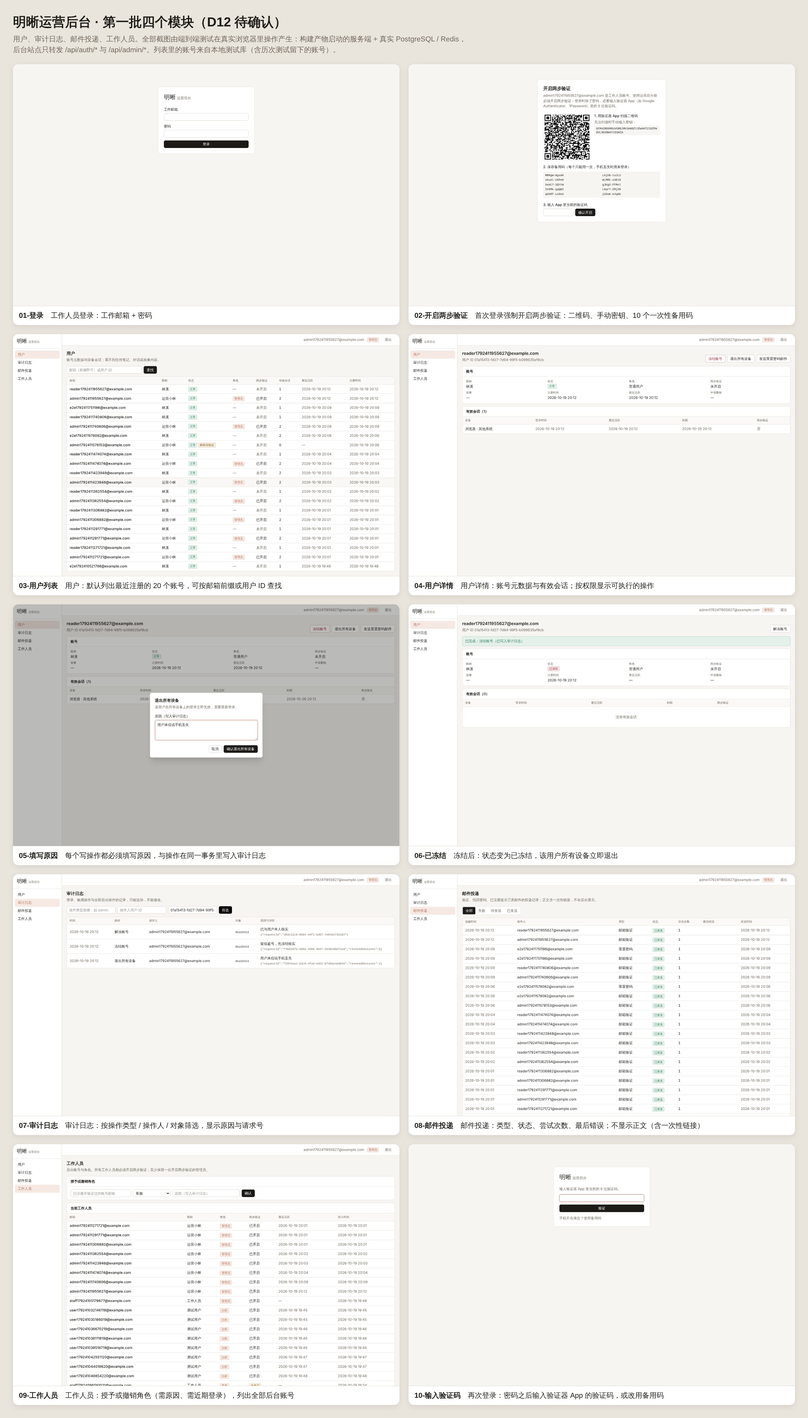
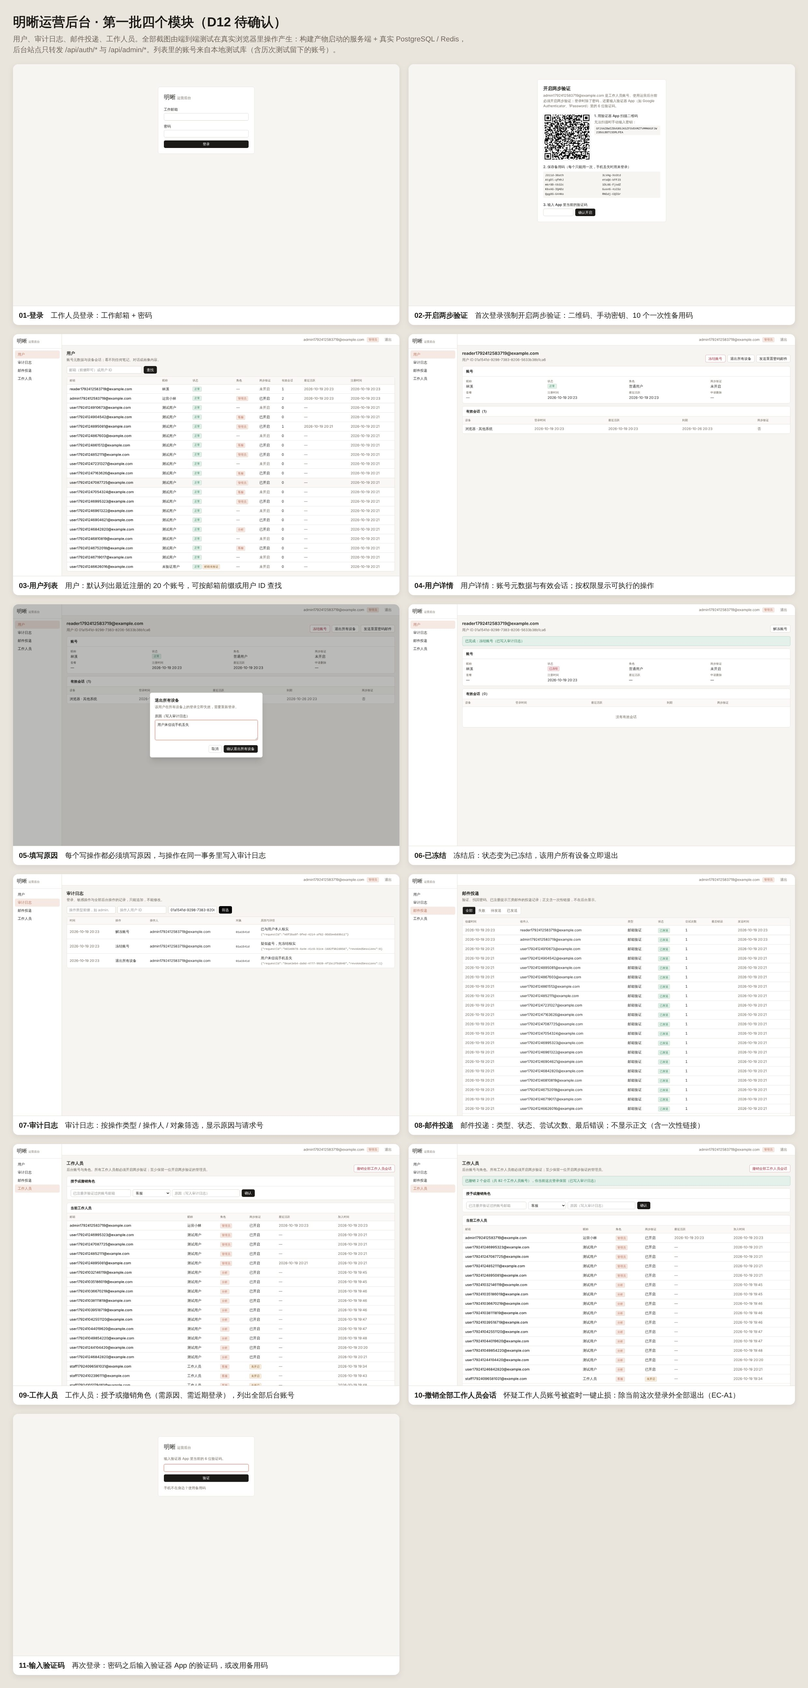
P3.5 步骤 4b：补齐 EC-A1，一键撤销全部工作人员会话
提交前自查发现 docs/05 EC-A1 的“管理员可一键撤销全部工作人员会话”没有实现。
- 接口 POST /api/admin/staff/revoke-sessions（staff.manage，敏感操作需 10 分钟内登录）：
  锁住全部工作人员行，删除工作人员的全部会话，只保留执行者当前这次登录；与审计同一事务
  （审计无单个对象，记录原因、撤销数量、涉及账号数）。契约 StaffSessionsRevoked。
- 工作人员页：按钮 + 填写原因的确认框；成功提示说明当前登录保留。
- 集成测试 1 个、端到端用例 1 个；反向验证两处（不保留执行者会话 / 不限定工作人员）均被拦住。
- 文档：docs/04 步骤 4b、docs/05 模块 10、docs/06 第 17 条证据；截图更新为 11 张。

Claude-Session: https://claude.ai/code/session_01NGYLNpdo16HzCjLLEdpXjv

diff --git a/apps/server/src/admin/admin.int.test.ts b/apps/server/src/admin/admin.int.test.ts
@@ -5,6 +5,7 @@ import {
   AuditPage,
   OutboxPage,
   StaffMe,
+  StaffSessionsRevoked,
   type StaffRole,
 } from "@mingxi/contracts";
 import type { IntegrationDatabase } from "@mingxi/db/testing";
@@ -63,7 +64,7 @@ async function staff(role: StaffRole, options: { twoFactor?: boolean } = {}) {
     const verified = await admin.call("/two-factor/verify-totp", { body: { code: totpFromUri(totpURI) } });
     expect(verified.status, JSON.stringify(verified.json)).toBe(200);
   }
-  return { email, admin, userId: await userIdOf(email) };
+  return { email, admin, totpURI, userId: await userIdOf(email) };
 }
 
 async function auditRows(targetId: string, action: string) {
@@ -306,5 +307,49 @@ describe("审计、发件箱与工作人员", () => {
     const self = StaffMe.parse((await admin.admin("/me")).json);
     const demote = await admin.admin("/staff", { body: { email: self.email, role: "user", reason: "测试" } });
     expect(demote.status).toBe(409);
+  });
+
+  it("撤销全部工作人员会话：只保留执行者当前这次登录，普通用户不受影响，写审计（EC-A1）", async () => {
+    const { admin, email, totpURI, userId } = await staff("admin");
+    // 同一位管理员在另一台设备上的登录（被盗的可能正是这一份）。
+    const otherLaptop = new Device({ origin: ADMIN_URL });
+    await otherLaptop.call("/sign-in/email", { body: { email, password: PASSWORD } });
+    await otherLaptop.call("/two-factor/verify-totp", { body: { code: totpFromUri(totpURI ?? "") } });
+    const support = await staff("support");
+    const reader = await registerAndVerify();
+    expect((await otherLaptop.admin("/me")).status).toBe(200);
+    expect((await support.admin.admin("/me")).status).toBe(200);
+
+    const denied = await support.admin.admin("/staff/revoke-sessions", { body: { reason: "客服尝试" } });
+    expect(denied.status).toBe(403);
+    expect(reason(denied)).toBe("permission_denied");
+
+    const response = await admin.admin("/staff/revoke-sessions", {
+      body: { reason: "怀疑有工作人员账号被盗" },
+    });
+    expect(response.status, JSON.stringify(response.json)).toBe(200);
+    const result = StaffSessionsRevoked.parse(response.json);
+    expect(result.revokedSessions).toBeGreaterThanOrEqual(2);
+
+    expect((await admin.admin("/me")).status).toBe(200);
+    expect((await otherLaptop.admin("/me")).status).toBe(401);
+    expect((await support.admin.admin("/me")).status).toBe(401);
+    expect((await reader.device.api("/me")).status).toBe(200);
+    const { rows: remaining } = await db.ownerPool.query<{ user_id: string }>(
+      "SELECT s.user_id FROM auth.sessions s JOIN auth.users u ON u.id = s.user_id WHERE u.role <> 'user'",
+    );
+    expect(remaining.map((row) => row.user_id)).toEqual([userId]);
+
+    const { rows: audits } = await db.ownerPool.query<{ target_id: string | null; metadata: object }>(
+      "SELECT target_id, metadata FROM ops.audit_log WHERE action = 'admin.staff_sessions_revoked' AND actor_user_id = $1",
+      [userId],
+    );
+    expect(audits).toHaveLength(1);
+    expect(audits[0]?.target_id).toBeNull();
+    expect(audits[0]?.metadata).toMatchObject({
+      reason: "怀疑有工作人员账号被盗",
+      revokedSessions: result.revokedSessions,
+      staffAccounts: result.staffAccounts,
+    });
   });
 });

diff --git a/apps/admin/src/views/StaffView.tsx b/apps/admin/src/views/StaffView.tsx
@@ -1,8 +1,15 @@
 "use client";
 
-import { AdminActionResult, StaffList, type AdminUserSummary, type UserRole } from "@mingxi/contracts";
+import {
+  AdminActionResult,
+  StaffList,
+  StaffSessionsRevoked,
+  type AdminUserSummary,
+  type UserRole,
+} from "@mingxi/contracts";
 import { useCallback, useEffect, useState, type SubmitEvent } from "react";
 import { AdminApiError, adminGet, adminPost } from "../api";
+import { ReasonDialog } from "../components/ReasonDialog";
 import { Badge, Banner, Button, Cell, PageHeader, Panel, Select, Table, TextInput } from "../components/ui";
 import { formatTime, ROLE_LABELS } from "../format";
 import { SignOutButton } from "../staff-context";
@@ -18,6 +25,7 @@ export function StaffView() {
     reason: "",
   });
   const [busy, setBusy] = useState(false);
+  const [confirmingRevokeAll, setConfirmingRevokeAll] = useState(false);
   const [notice, setNotice] = useState<string | null>(null);
   const [error, setError] = useState<AdminApiError | Error | null>(null);
 
@@ -58,11 +66,41 @@ export function StaffView() {
     }
   }
 
+  /** 撤销全部工作人员会话（EC-A1）。需要重新登录时关闭确认框、在页面上给出入口；其他失败显示在确认框里。 */
+  async function revokeAll(reason: string) {
+    setNotice(null);
+    setError(null);
+    let result: StaffSessionsRevoked;
+    try {
+      result = await adminPost("/staff/revoke-sessions", { reason }, StaffSessionsRevoked);
+    } catch (failure) {
+      if (failure instanceof AdminApiError && failure.reason === "reauth_required") {
+        setError(failure);
+        return;
+      }
+      throw failure;
+    }
+    setNotice(
+      `已撤销 ${String(result.revokedSessions)} 个会话（共 ${String(result.staffAccounts)} 个工作人员账号），你当前这次登录保留（已写入审计日志）`,
+    );
+    await load();
+  }
+
   return (
     <>
       <PageHeader
         title="工作人员"
         description="后台账号与角色。所有工作人员都必须开启两步验证；至少保留一位开启两步验证的管理员。"
+        actions={
+          <Button
+            tone="danger"
+            onClick={() => {
+              setConfirmingRevokeAll(true);
+            }}
+          >
+            撤销全部工作人员会话
+          </Button>
+        }
       />
       <div className="space-y-3">
         {notice ? <Banner tone="success">{notice}</Banner> : null}
@@ -147,6 +185,18 @@ export function StaffView() {
           </Table>
         </Panel>
       </div>
+      {confirmingRevokeAll ? (
+        <ReasonDialog
+          title="撤销全部工作人员会话"
+          description="除你当前这次登录外，所有工作人员（包括你在其他设备上的登录）立即退出，需要重新用密码和验证码登录。用于怀疑有工作人员账号被盗时。"
+          confirmLabel="确认撤销全部会话"
+          danger
+          onConfirm={revokeAll}
+          onClose={() => {
+            setConfirmingRevokeAll(false);
+          }}
+        />
+      ) : null}
     </>
   );
 }

diff --git a/apps/server/src/admin/actions.ts b/apps/server/src/admin/actions.ts
@@ -14,6 +14,8 @@ export interface AdminAuthActions {
 
 export interface Actor {
   userId: string;
+  /** 执行者当前这次登录的会话（撤销全部工作人员会话时保留它）。 */
+  sessionId: string;
   ipHash: string | null;
   requestId: string;
 }
@@ -58,19 +60,21 @@ async function lockTarget(client: PoolClient, userId: string): Promise<TargetRow
   return row;
 }
 
+/** targetId 为 null 表示不针对单个用户的操作（例如撤销全部工作人员会话）。 */
 async function audit(
   client: PoolClient,
   actor: Actor,
   action: string,
-  targetId: string,
+  targetId: string | null,
   metadata: Record<string, unknown>,
 ): Promise<void> {
   await client.query(
     `INSERT INTO ops.audit_log (actor_user_id, action, target_type, target_id, metadata, ip_hash)
-     VALUES ($1, $2, 'user', $3, $4, $5)`,
+     VALUES ($1, $2, $3, $4, $5, $6)`,
     [
       actor.userId,
       action,
+      targetId ? "user" : null,
       targetId,
       JSON.stringify({ ...metadata, requestId: actor.requestId }),
       actor.ipHash,
@@ -136,6 +140,24 @@ export function adminActions(pool: Pool, authActions: AdminAuthActions) {
         if (target.status !== "active") throw new AppError("conflict", "账号已冻结，不能重置密码");
         await audit(client, actor, "admin.password_reset_sent", userId, { reason });
         await authActions.sendPasswordReset(target.email);
+      }),
+
+    /**
+     * 撤销全部工作人员会话（EC-A1：怀疑有工作人员账号被盗时止损）。只保留执行者当前这次登录；
+     * 执行者自己在其他设备上的登录也一并撤销——被盗的可能正是执行者的账号。
+     */
+    revokeAllStaffSessions: (actor: Actor, reason: string) =>
+      inTransaction(pool, async (client) => {
+        // 锁住全部工作人员行：与授予 / 撤销角色并发时，后到的一方看到最新的工作人员名单。
+        const staff = await client.query("SELECT id FROM auth.users WHERE role <> 'user' FOR UPDATE");
+        const deleted = await client.query(
+          `DELETE FROM auth.sessions s USING auth.users u
+            WHERE s.user_id = u.id AND u.role <> 'user' AND s.id <> $1`,
+          [actor.sessionId],
+        );
+        const result = { revokedSessions: deleted.rowCount ?? 0, staffAccounts: staff.rowCount ?? 0 };
+        await audit(client, actor, "admin.staff_sessions_revoked", null, { reason, ...result });
+        return result;
       }),
 
     /** 修改工作人员角色（规则见 staff/roles.ts：账号须已验证；至少保留一个开启两步验证的管理员）。 */

diff --git a/e2e/src/admin-flow.e2e.ts b/e2e/src/admin-flow.e2e.ts
@@ -185,6 +185,18 @@ describe("运营后台", () => {
     await shot("09-工作人员");
   });
 
+  it("撤销全部工作人员会话：执行者当前这次登录保留（EC-A1）", async () => {
+    await page.getByRole("button", { name: "撤销全部工作人员会话" }).click();
+    const dialog = page.getByRole("dialog");
+    await dialog.getByLabel("原因（写入审计日志）").fill("演练：怀疑有工作人员账号被盗");
+    await dialog.getByRole("button", { name: "确认撤销全部会话" }).click();
+    await page.getByRole("status").filter({ hasText: "你当前这次登录保留" }).waitFor();
+    await shot("10-撤销全部工作人员会话");
+    // 重新加载会重新检查登录状态：当前会话仍然有效。
+    await page.reload();
+    await page.getByRole("heading", { name: "工作人员", exact: true }).waitFor();
+  });
+
   it("退出失败时留在原页并说明原因，不假装已经退出", async () => {
     await page.route("**/api/auth/sign-out", (route) => route.fulfill({ status: 503, body: "" }));
     await page.getByRole("button", { name: "退出" }).click();
@@ -200,7 +212,7 @@ describe("运营后台", () => {
     await page.getByLabel("密码").fill(PASSWORD);
     await page.getByRole("button", { name: "登录", exact: true }).click();
     await page.getByLabel("验证码").waitFor();
-    await shot("10-输入验证码");
+    await shot("11-输入验证码");
     await page.getByLabel("验证码").fill(totpCode(totpSecret));
     await page.getByRole("button", { name: "验证" }).click();
     await page.getByRole("heading", { name: "用户", exact: true }).waitFor();

diff --git a/apps/server/src/admin/routes.ts b/apps/server/src/admin/routes.ts
@@ -10,6 +10,7 @@ import {
   RoleChangeBody,
   StaffList,
   StaffMe,
+  StaffSessionsRevoked,
   type AdminActionResult,
 } from "@mingxi/contracts";
 import type { Pool } from "@mingxi/db";
@@ -63,6 +64,7 @@ export function adminRoutes(deps: AdminDeps) {
 
   const actor = (c: Context<AdminEnv>): Actor => ({
     userId: c.var.user.id,
+    sessionId: c.var.staff.session.sessionId,
     requestId: c.var.requestId,
     ipHash: hashClientIp(
       deps.ipHashSecret,
@@ -164,6 +166,12 @@ export function adminRoutes(deps: AdminDeps) {
     const input = await body(c, RoleChangeBody);
     await deps.actions.changeStaffRole(actor(c), input);
     return c.json(done);
+  });
+
+  app.post("/staff/revoke-sessions", requirePermission("staff.manage", { write: true }), async (c) => {
+    const { reason } = await body(c, ReasonBody);
+    const result = await deps.actions.revokeAllStaffSessions(actor(c), reason);
+    return c.json(StaffSessionsRevoked.parse({ ok: true, ...result }));
   });
 
   app.all("*", () => {

diff --git a/packages/contracts/src/admin.ts b/packages/contracts/src/admin.ts
@@ -151,3 +151,11 @@ export type RoleChangeBody = z.infer<typeof RoleChangeBody>;
 
 export const AdminActionResult = z.object({ ok: z.literal(true) });
 export type AdminActionResult = z.infer<typeof AdminActionResult>;
+
+/** 撤销全部工作人员会话的结果（EC-A1）：撤销了多少个会话、涉及多少个工作人员账号。 */
+export const StaffSessionsRevoked = z.object({
+  ok: z.literal(true),
+  revokedSessions: z.number().int().nonnegative(),
+  staffAccounts: z.number().int().nonnegative(),
+});
+export type StaffSessionsRevoked = z.infer<typeof StaffSessionsRevoked>;

diff --git a/apps/admin/src/format.ts b/apps/admin/src/format.ts
@@ -50,6 +50,7 @@ const ACTION_LABELS: Record<string, string> = {
   "admin.sessions_revoked": "退出所有设备",
   "admin.verification_resent": "重发验证邮件",
   "admin.password_reset_sent": "发送重置密码邮件",
+  "admin.staff_sessions_revoked": "撤销全部工作人员会话",
   "staff.role_changed": "修改工作人员角色",
 };
 

diff --git a/docs/04-执行计划.md b/docs/04-执行计划.md
@@ -136,7 +136,8 @@
 | 1 数据库 | 迁移 0005（analyst 角色、两步验证标记与密钥表、会话的 `mfa_verified`）、0006（`mingxi_admin` 只读权限组：不授予 app / memory，auth / ops 按列授权，无写权限；`ops.admin_user_overview`）；`db:roles` 同时创建运行时与后台账号并互斥检查；5 个集成测试证明后台账号读不到内容与凭据、不能写 | `a99022a` |
 | 2 两步验证与 staff:grant | Better Auth `twoFactor`（TOTP + 一次性备用码，加密存储）；会话创建时由服务端按来源接口标记是否经过两步验证，“信任此设备”的会话不算；2FA 接口按 IP 限流 5 次 / 分钟；开启 / 关闭写审计；`staff:grant` 命令（表 owner 连接、同事务审计、至少保留一个开启两步验证的管理员并对并发撤销加锁）；新增集成测试 9 个、TOTP 测试工具按 RFC 6238 测试向量校验 | `35de279` |
 | 3 后台接口 | `/api/admin/*` 独立中间件组（后台来源 → 工作人员检查：角色、未冻结、开启两步验证且本次会话经过验证、会话 ≤ 12 小时 → 按工作人员限流），每个接口声明权限，敏感写操作要求 10 分钟内登录；兜底路由保证未知路径不落进普通业务接口。读走后台只读账号；写操作（冻结 / 解冻、退出所有设备、重发验证 / 重置邮件、改工作人员角色）与审计同一事务，审计含原因、请求 ID、地址哈希。冻结同时撤销全部会话（EC-A9）；工作人员账号不能直接冻结；冷静期内后台不能解冻。契约与权限矩阵在 `packages/contracts/src/admin.ts`，服务端与后台界面共用。13 个集成测试；对“去掉本次会话两步验证检查 / 冻结不撤销会话 / 不检查具体权限 / 去掉兜底路由”四处反向验证，对应用例都失败（第一处起初没被发现，补了“信任此设备”的用例） | `082c2b5` |
-| 4 后台界面 MVP（D12 截图确认） | `apps/admin`：Next.js 静态导出 + Tailwind（品牌色取工作台的赭石色，不加载远程字体），登录（密码 → 验证码 / 备用码）、首次登录就地开启两步验证（二维码、手动密钥、备用码；从不请求“信任此设备”）、用户（默认最近注册 20 个，按邮箱前缀或 ID 查找）、用户详情（元数据、有效会话、按权限显示操作，每个操作填写原因）、审计日志（按操作类型 / 操作人 / 对象筛选，分页）、邮件投递（按状态筛选，分页）、工作人员（授予 / 撤销角色）。响应结构按共用契约校验，对不上明确报错；需要重新登录的敏感操作给出“重新登录”入口；退出失败时留在原页并说明，不假装已退出。`public/_headers` 让 Cloudflare Pages 返回禁止嵌入、不被收录的响应头。端到端测试 9 个用例（`e2e/src/admin-flow.e2e.ts`）：后台站点用 127.0.0.1 与正式站的 localhost 分开 Cookie，只转发 /api/auth/* 与 /api/admin/*，与线上 Pages Function 一致；`staff:grant` 授予第一个管理员 → 首次登录被引导开启两步验证 → 查找用户 → 退出所有设备（目标用户的会话立即 401）→ 冻结 / 解冻 → 审计按对象筛选出这三条且原因原样 → 邮件投递 → 工作人员 → 退出失败的提示 → 退出后再登录必须输入验证码、Cookie 只属于后台站点 → 普通用户被拒绝。反向验证：“操作不调接口就显示已完成”“退出失败也跳到登录页”两处缺陷放回去，对应用例失败。截图见 `docs/review/p3-5-admin-console.jpg`，等用户确认（D12） | 本次提交 |
+| 4 后台界面 MVP（D12 截图确认） | `apps/admin`：Next.js 静态导出 + Tailwind（品牌色取工作台的赭石色，不加载远程字体），登录（密码 → 验证码 / 备用码）、首次登录就地开启两步验证（二维码、手动密钥、备用码；从不请求“信任此设备”）、用户（默认最近注册 20 个，按邮箱前缀或 ID 查找）、用户详情（元数据、有效会话、按权限显示操作，每个操作填写原因）、审计日志（按操作类型 / 操作人 / 对象筛选，分页）、邮件投递（按状态筛选，分页）、工作人员（授予 / 撤销角色）。响应结构按共用契约校验，对不上明确报错；需要重新登录的敏感操作给出“重新登录”入口；退出失败时留在原页并说明，不假装已退出。`public/_headers` 让 Cloudflare Pages 返回禁止嵌入、不被收录的响应头。端到端测试 9 个用例（`e2e/src/admin-flow.e2e.ts`，步骤 4b 后为 10 个）：后台站点用 127.0.0.1 与正式站的 localhost 分开 Cookie，只转发 /api/auth/* 与 /api/admin/*，与线上 Pages Function 一致；`staff:grant` 授予第一个管理员 → 首次登录被引导开启两步验证 → 查找用户 → 退出所有设备（目标用户的会话立即 401）→ 冻结 / 解冻 → 审计按对象筛选出这三条且原因原样 → 邮件投递 → 工作人员 → 退出失败的提示 → 退出后再登录必须输入验证码、Cookie 只属于后台站点 → 普通用户被拒绝。反向验证：“操作不调接口就显示已完成”“退出失败也跳到登录页”两处缺陷放回去，对应用例失败。截图见 `docs/review/p3-5-admin-console.jpg`，等用户确认（D12） | `2d956ab` |
+| 4b 补齐 EC-A1：撤销全部工作人员会话 | 提交前自查发现 EC-A1 的“一键撤销全部工作人员会话”没有实现（docs/06 第 17 条）。`POST /api/admin/staff/revoke-sessions`（`staff.manage`，敏感操作需 10 分钟内登录）：锁住全部工作人员行，删除工作人员的全部会话，只保留执行者当前这次登录（执行者在其他设备上的登录一并撤销），与审计同一事务；工作人员页加按钮与填写原因的确认框。集成测试：执行者当前会话仍可用、执行者另一台设备与客服的会话 401、普通用户不受影响、库里只剩执行者一个工作人员会话、客服调用被拒、审计数量与原因一致；反向验证“不保留执行者会话”“不限定工作人员”两处，用例失败。端到端用例：确认后提示保留当前登录，刷新页面仍在后台。截图更新为 11 张 | 本次提交 |
 
 ## P4 · 模型网关、摄取与检索
 

diff --git a/docs/06-自查与改进.md b/docs/06-自查与改进.md
@@ -59,7 +59,7 @@
 | # | 严重程度 | 问题 | 影响 | 处理 | 证据 |
 |---|---|---|---|---|---|
 | 16 | 中 | 退出登录不看结果：网络不通或服务端出错时也跳到登录页 | 工作人员以为已经退出，会话其实还有效（共用电脑上可被他人继续使用） | 退出失败时留在原页、在按钮旁说明原因；所有退出入口改用同一个按钮组件 | 端到端用例“退出失败时留在原页”；去掉检查后该用例失败（反向验证） |
-| 17 | 中 | docs/05 EC-A1 写了“管理员可一键撤销全部工作人员会话”，P3.5 验收也列了 EC-A1，但没有实现 | 怀疑工作人员账号被盗时只能逐个处理，拖延止损 | 紧接着的下一个提交补上（接口、界面、集成与端到端测试） | 见 docs/04 P3.5 进度表 |
+| 17 | 中 | docs/05 EC-A1 写了“管理员可一键撤销全部工作人员会话”，P3.5 验收也列了 EC-A1，但没有实现 | 怀疑工作人员账号被盗时只能逐个处理，拖延止损 | 紧接着的下一个提交补上（接口、界面、集成与端到端测试） | docs/04 P3.5 步骤 4b；集成用例“撤销全部工作人员会话”，两处反向验证均被拦住 |
 | 18 | 低 | 后台站点没有禁止被嵌入的响应头 | 其他网站可以把后台嵌进页面、诱导已登录的工作人员点击（点击劫持）；填写原因的确认框降低了风险但不能代替 | `apps/admin/public/_headers`：`X-Frame-Options: DENY`、`frame-ancestors 'none'`、`noindex` 等；P9 部署后用 curl 检查线上响应头 | 端到端用例检查构建产物带上这些规则 |
 | 19 | 低（测试） | 第二个端到端文件加入后两个文件并行运行，各自的服务端连同一个测试库，后台任务把对方的待发邮件投到自己的收件箱，等邮件超时 | 测试随机失败，掩盖真实问题 | 端到端文件之间串行（与集成测试一致） | `e2e/vitest.e2e.config.ts` |
 | 20 | 低（测试） | 截图在数据返回前拍下（客户端路由切换后 `networkidle` 早已达成，不会等数据）；按钮淡入过程被拍成灰色 | 给用户确认的截图与真实界面不符：用户列表看起来是空的，确认按钮像是不可点 | 每张截图前先等要看的内容出现，关闭过渡动画；用户列表的截图前加断言“默认列表里有刚注册的账号” | 重新截图核对 |

diff --git a/docs/05-后台管理与运营.md b/docs/05-后台管理与运营.md
@@ -131,7 +131,7 @@ flowchart TB
 | 7 | 任务与邮件 | pg-boss 各队列的等待 / 进行 / 失败数；失败任务查看错误与重试 / 放弃；发件箱按状态查看投递记录与失败原因（不含正文）。失败邮件里的一次性链接按设计已清除、不能原样重发，补发是在用户模块里“重发验证邮件 / 发送重置邮件”生成新邮件；收件地址不打码——客服本来就能在用户模块看到邮箱，并需要它与用户的反馈对上 | `pgboss` schema、`ops.email_outbox` | `jobs.read` / `jobs.manage` | MVP（发件箱）；队列随 P4 |
 | 8 | 审计日志 | 按操作人、操作类型、对象、时间筛选；工作人员的所有操作、用户的登录与敏感操作 | `ops.audit_log` | `audit.read` | MVP |
 | 9 | 支持访问 | 输入用户提供的授权码 → 显示授权范围与有效期 → 在范围内只读查看；所有访问记审计，用户可看到记录 | `ops.support_grants` + 以目标用户身份的只读事务 | `support.access` | P5（有内容可看之后） |
-| 10 | 工作人员与权限 | 工作人员列表、角色、两步验证是否开启、最后登录；邀请 / 回收角色 | `auth.users`（role ≠ user） | `staff.manage` | MVP |
+| 10 | 工作人员与权限 | 工作人员列表、角色、两步验证是否开启、最后登录；授予 / 回收角色；一键撤销全部工作人员会话（只保留执行者当前这次登录，EC-A1） | `auth.users`（role ≠ user） | `staff.manage` | MVP |
 | 11 | 合规请求 | 数据导出与删除申请的状态（申请时间、冷静期剩余、执行结果）；后台只能查看与催办，不能代替用户发起删除 | `auth.users.deletion_requested_at`、导出任务记录 | `users.read` | P9 |
 | 12 | 反馈与公告 | 用户对 Agent 结果的反馈；系统公告 | — | — | 远期：用户侧收集反馈需要新增界面元素，属于红线 1，须先问用户 |
 
